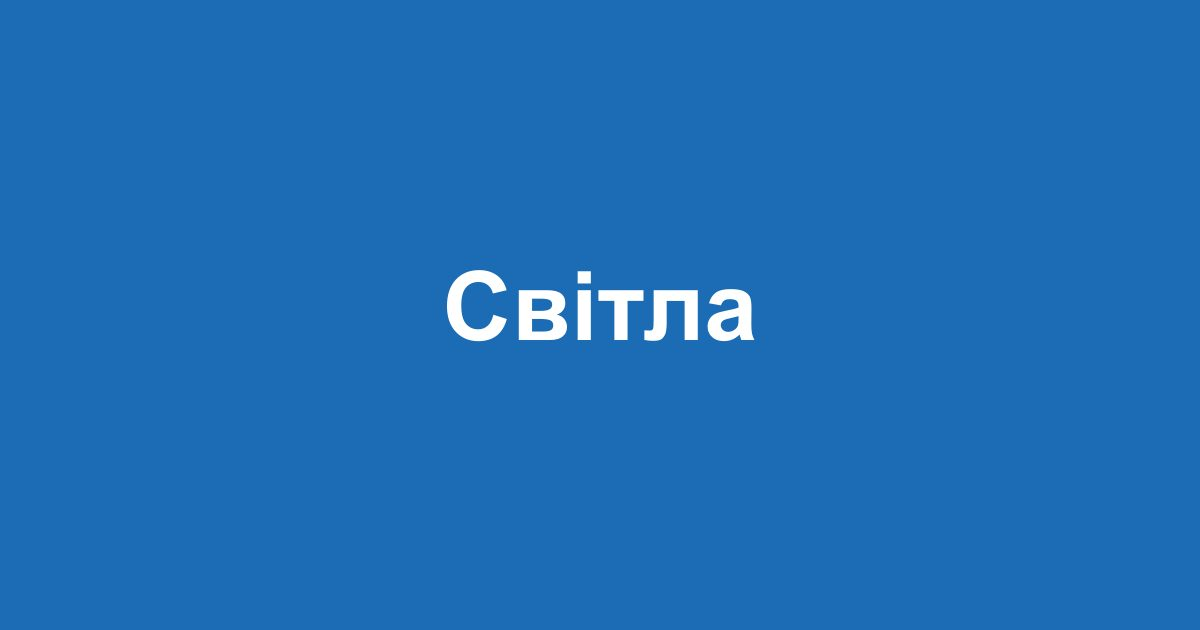
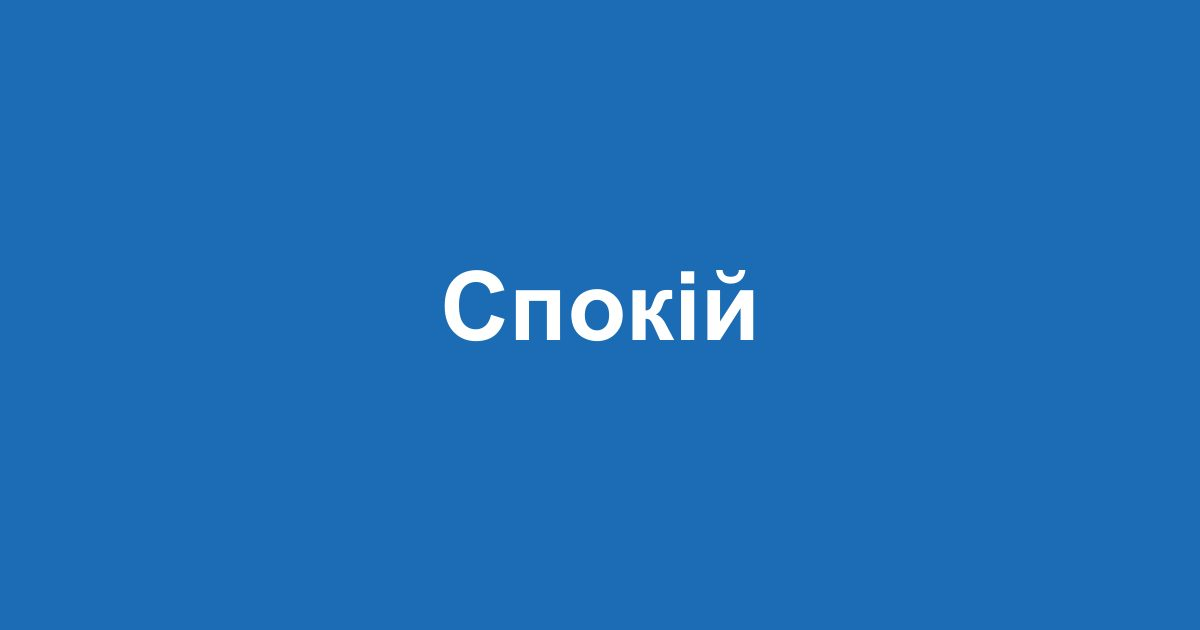
Polish flagship-medicine: texts, name, licenses layout

Changed region(s): [[0.37, 0.4222, 0.6475, 0.5429]]

diff --git a/src/data/demo-dental.ts b/src/data/demo-dental.ts
@@ -106,13 +106,13 @@ export const header = {
 };
 
 export const hero = {
-	eyebrow: "Стоматологія в Києві",
 	title: "Лікуємо спокійно: з анестезією, планом і ціною до початку",
 	text: "Огляд, зрозумілий план і кошторис письмово ще до початку лікування",
 	points: ["Анестезія", "Кошторис письмово", "Запис на сьогодні"],
 	primaryCta: { label: "Записатися на огляд", href: "#booking", service: "Огляд і консультація" },
 	secondaryCta: { label: "Дивитись ціни", href: "#prices" },
-	imageLabel: "Фото клініки",
+	imageLabel: "Фото: кабінет стоматолога",
+	imageAlt: "Кабінет стоматолога: лікар і пацієнт",
 };
 
 const ratingItem = demoDental.rating
@@ -134,41 +134,45 @@ export const trust = {
 };
 
 export const services = {
-	title: "Послуги",
+	title: "Що ми лікуємо",
 	currency: ui.currency,
+	groupThousands: true,
 	items: [
 		{
 			title: "Лікування зубів",
-			text: "Спершу огляд. План і кошторис письмово, ще до початку.",
+			text: "Карієс, пломби, лікування каналів, гігієна. Спочатку огляд і план.",
 			priceFrom: 1500,
 			linkLabel: ui.buttons.book,
 			href: "#booking",
 			service: "Лікування зубів",
-			imageLabel: "Лікування зубів",
+			imageLabel: "Фото: лікування зубів",
+			imageAlt: "Лікування зубів",
 		},
 		{
 			title: "Імплантація",
-			text: "Консультація, план і ціна письмово. Нічого не починаємо без згоди.",
+			text: "Відновлення втрачених зубів: від консультації й знімка до коронки.",
 			priceFrom: 25000,
 			linkLabel: ui.buttons.book,
 			href: "#booking",
 			service: "Імплантація",
-			imageLabel: "Імплантація",
+			imageLabel: "Фото: імплантація",
+			imageAlt: "Імплантація",
 		},
 		{
 			title: "Брекети й елайнери",
-			text: "Консультація ортодонта. План і ціну узгоджуємо до старту.",
+			text: "Виправлення прикусу: підберемо варіант під ваші цілі й бюджет.",
 			priceFrom: 20000,
 			linkLabel: ui.buttons.book,
 			href: "#booking",
 			service: "Брекети й елайнери",
-			imageLabel: "Брекети й елайнери",
+			imageLabel: "Фото: брекети й елайнери",
+			imageAlt: "Брекети й елайнери",
 		},
 	],
 };
 
 export const team = {
-	title: "Лікарі",
+	title: "Наші лікарі",
 	items: [
 		{
 			name: "Олена Мельник",
@@ -192,8 +196,17 @@ function lead(price: number) {
 	return Math.round(price * 1.3);
 }
 
+function formatPrice(price: number) {
+	const formatted = String(price).replace(/\B(?=(\d{3})+(?!\d))/g, "\u00a0");
+	return `${formatted} ${ui.currency}`;
+}
+
 function priceRow(service: string, price: number, duration: string) {
-	return { service, duration, prices: [price, lead(price)] as [number, number] };
+	return {
+		service,
+		duration,
+		prices: [formatPrice(price), formatPrice(lead(price))] as [string, string],
+	};
 }
 
 export const prices = {
@@ -210,23 +223,23 @@ export const prices = {
 			rows: [
 				priceRow("Огляд і консультація", 400, "30 хв"),
 				priceRow("Лікування карієсу", 1800, "60 хв"),
-				priceRow("Пломба", 1500, "40 хв"),
+				priceRow("Пломба", 1500, "60 хв"),
 				priceRow("Лікування каналів", 3500, "90 хв"),
-				priceRow("Видалення зуба", 1200, "30 хв"),
+				priceRow("Видалення зуба", 1200, "45 хв"),
 				priceRow("Професійна гігієна", 1800, "60 хв"),
-				priceRow("Відбілювання", 4500, "60 хв"),
-				priceRow("Лікування ясен", 2000, "45 хв"),
+				priceRow("Відбілювання", 4500, "90 хв"),
+				priceRow("Лікування ясен", 2000, "60 хв"),
 			],
 		},
 		{
 			name: "Імплантація",
 			levels: ["Лікар", "Провідний лікар"] as [string, string],
 			rows: [
-				priceRow("Консультація й 3D-знімок", 600, "40 хв"),
+				priceRow("Консультація й 3D-знімок", 600, "45 хв"),
 				priceRow("Імплант", 25000, "90 хв"),
 				priceRow("Коронка", 8000, "60 хв"),
 				priceRow("Підсадка кістки", 9000, "90 хв"),
-				priceRow("Видалення з імплантацією", 5000, "90 хв"),
+				priceRow("Видалення з імплантацією", 5000, "120 хв"),
 			],
 		},
 		{
@@ -237,17 +250,17 @@ export const prices = {
 				priceRow("Брекети металеві", 20000, "90 хв"),
 				priceRow("Брекети керамічні", 28000, "90 хв"),
 				priceRow("Елайнери", 55000, "60 хв"),
-				priceRow("Ретейнер", 3500, "30 хв"),
+				priceRow("Ретейнер", 3500, "45 хв"),
 			],
 		},
 		{
 			name: "Гігієна",
 			levels: ["Лікар", "Провідний лікар"] as [string, string],
 			rows: [
-				priceRow("Чистка ультразвуком", 1200, "40 хв"),
-				priceRow("Air Flow", 1000, "30 хв"),
-				priceRow("Комплексна гігієна", 1800, "60 хв"),
-				priceRow("Фторування", 600, "20 хв"),
+				priceRow("Чистка ультразвуком", 1200, "45 хв"),
+				priceRow("Air Flow", 1000, "45 хв"),
+				priceRow("Комплексна гігієна", 1800, "75 хв"),
+				priceRow("Фторування", 600, "30 хв"),
 				priceRow("Консультація гігієніста", 300, "30 хв"),
 			],
 		},
@@ -255,7 +268,7 @@ export const prices = {
 };
 
 export const reviews = {
-	title: "Відгуки",
+	title: "Відгуки пацієнтів",
 	allLink: { label: "Усі відгуки в Google", href: "#" },
 	items: [
 		{
@@ -313,9 +326,9 @@ export const booking = {
 	title: "Запишіться на огляд",
 	ctaTitle: "Запишіться на огляд",
 	ctaLabel: "Записатися на огляд",
-	ctaText: "Після огляду лікар складе план і кошторис письмово. Ціна не змінюється без вашої згоди.",
+	ctaText: "Оберіть зручний час, ми підтвердимо запис",
 	writeLabel: "або напишіть:",
-	note: "Підтвердимо час у месенджері в робочі години.",
+	note: "Залиште контакти, і ми підтвердимо запис",
 	privacyHref: "/flagship-medicine/privacy/",
 	services: [
 		{
@@ -331,6 +344,6 @@ export const booking = {
 };
 
 export const contacts = {
-	title: "Як нас знайти",
+	title: "Контакти",
 	directions: "Як дістатися: 5 хвилин пішки від метро (демо)",
 };

diff --git a/src/config/demo-dental.ts b/src/config/demo-dental.ts
@@ -5,7 +5,7 @@ export const demoDental = {
 	id: 'demo-dental',
 	locale: 'uk',
 	siteUrl: 'https://landing-engine-gamma.vercel.app',
-	name: 'Світла',
+	name: 'Спокій',
 	tagline: 'Стоматологія',
 	businessType: 'Dentist',
 	staffLabel: 'Лікар',
@@ -40,9 +40,9 @@ export const demoDental = {
 		onlineService: null,
 	},
 	seo: {
-		title: 'Стоматологія «Світла» — лікування з планом і ціною',
+		title: 'Стоматологія «Спокій» — лікування з планом і ціною',
 		description:
-			'Стоматологія «Світла» в Києві: огляд, письмовий план і кошторис ще до початку лікування. Анестезія, запис на сьогодні. вул. Прикладна, 12. Пн–Сб 09:00–20:00.',
+			'Стоматологія «Спокій» в Києві: огляд, письмовий план і кошторис ще до початку лікування. Анестезія, запис на сьогодні. вул. Прикладна, 12. Пн–Сб 09:00–20:00.',
 		ogImage: '/og/demo-dental.jpg',
 		favicon: '/favicon-dental.svg',
 	},
